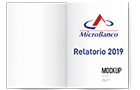
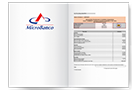
Adding reports and index changes

diff --git a/proposta7/relatorio.html b/proposta7/relatorio.html
@@ -66,15 +66,15 @@
                 <div class="row">
                     <div class="col-lg-7">
                         <ul class="header__top__widget">
-                            <li><i class="fa fa-clock-o"></i> Week day: 08:00 am to 18:00 pm</li>
-                            <li><i class="fa fa-envelope-o"></i> Info.colorlib@gmail.com</li>
+                            <li><i class="fa fa-clock-o"></i> Aberto: 08:00 as 18:00</li>
+                            <li><i class="fa fa-envelope-o"></i> info@acmicrobanco.co.mz</li>
                         </ul>
                     </div>
                     <div class="col-lg-5">
                         <div class="header__top__right">
                             <div class="header__top__phone">
                                 <i class="fa fa-phone"></i>
-                                <span>(+12) 345 678 910</span>
+                                <span>(+258) 21316768</span>
                             </div>
                             <div class="header__top__social">
                                 <a href="#"><i class="fa fa-facebook"></i></a>
@@ -87,14 +87,15 @@
                 </div>
             </div>
         </div>
+        
         <div class="container">
             <div class="row">
-                <div class="col-lg-2">
+                <div class="col-lg-4">
                     <div class="header__logo">
                         <a href="./index.html"><img src="img/logo300.png" alt=""></a>
                     </div>
                 </div>
-                <div class="col-lg-10">
+                <div class="col-lg-8">
                     <div class="header__nav">
                         <nav class="header__menu">
                             <ul>
@@ -156,7 +157,7 @@
                 <div class="col-lg-9">
                     <div class="car__details__pic">
                         <div class="car__details__pic__large">
-                            <img class="car-big-img" src="img/cars/details/cd-1.png" alt="">
+                            <a href="https://issuu.com/jaime.jcm/docs/indicadores_prudenciais_junho_2020" target="_blank"><img class="car-big-img" src="img/cars/details/cd-1.png" alt=""></a>
                         </div>
                         <div class="car-thumbs">
                             <div class="car-thumbs-track car__thumb__slider owl-carousel">

diff --git a/proposta7/about.html b/proposta7/about.html
@@ -89,12 +89,12 @@
         </div>
         <div class="container">
             <div class="row">
-                <div class="col-lg-2">
+                <div class="col-lg-4">
                     <div class="header__logo">
-                        <a href="./index.html"><img src="img/logo.png" alt=""></a>
+                        <a href="./index.html"><img src="img/logo300.png" alt=""></a>
                     </div>
                 </div>
-                <div class="col-lg-10">
+                <div class="col-lg-8">
                     <div class="header__nav">
                         <nav class="header__menu">
                             <ul>
@@ -102,9 +102,9 @@
                                 <li><a href="./about.html">Sobre Nós</a></li>
                                 <li><a href="#">Productos</a>
                                     <ul class="dropdown">
-                                        <li><a href="#">Particulares</a></li>
-                                        <li><a href="#">Empresas</a></li>
-                                        <li><a href="#">Agro</a></li><li><a href="#">Relatórios</a></li>
+                                        <li><a href="particulares.html">Particulares</a></li>
+                                        <li><a href="empresas.html">Empresas</a></li>
+                                        <li><a href="relatorio.html">Relatórios</a></li>
                                     </ul>
                                 </li>
                                 <li><a href="contacto.html">Onde Estamos</a></li>

diff --git a/proposta7/particulares.html b/proposta7/particulares.html
@@ -91,12 +91,12 @@
             <div class="row">
                 <div class="container">
             <div class="row">
-                <div class="col-lg-2">
+                <div class="col-lg-4">
                     <div class="header__logo">
                         <a href="./index.html"><img src="img/logo300.png" alt=""></a>
                     </div>
                 </div>
-                <div class="col-lg-10">
+                <div class="col-lg-8">
                     <div class="header__nav">
                         <nav class="header__menu">
                             <ul>
@@ -110,7 +110,7 @@
                                     <ul class="dropdown">
                                         <li class="active"><a href="particulares.html">Particulares</a></li>
                                         <li><a href="empresas.html">Empresas</a></li>
-                                        <li><a href="#">Agro</a></li><li><a href="relatorio.html">Relatórios</a></li>
+                                        <li><a href="relatorio.html">Relatórios</a></li>
                                     </ul>
                                 </li>
                                 <li><a href="contacto.html">Onde Estamos</a></li>

diff --git a/proposta7/empresas.html b/proposta7/empresas.html
@@ -91,12 +91,12 @@
             <div class="row">
                 <div class="container">
             <div class="row">
-                <div class="col-lg-2">
+                <div class="col-lg-4">
                     <div class="header__logo">
                         <a href="./index.html"><img src="img/logo300.png" alt=""></a>
                     </div>
                 </div>
-                <div class="col-lg-10">
+                <div class="col-lg-8">
                     <div class="header__nav">
                         <nav class="header__menu">
                             <ul>
@@ -110,7 +110,7 @@
                                     <ul class="dropdown">
                                         <li class="active"><a href="particulares.html">Particulares</a></li>
                                         <li><a href="empresas.html">Empresas</a></li>
-                                        <li><a href="#">Agro</a></li><li><a href="#">Relatórios</a></li>
+                                        <li><a href="relatorio.html">Relatórios</a></li>
                                     </ul>
                                 </li>
                                 <li><a href="contacto.html">Onde Estamos</a></li>

diff --git a/proposta7/contacto.html b/proposta7/contacto.html
@@ -89,12 +89,12 @@
         </div>
         <div class="container">
             <div class="row">
-                <div class="col-lg-2">
+                <div class="col-lg-4">
                     <div class="header__logo">
                         <a href="./index.html"><img src="img/logo300.png" alt=""></a>
                     </div>
                 </div>
-                <div class="col-lg-10">
+                <div class="col-lg-8">
                     <div class="header__nav">
                         <nav class="header__menu">
                             <ul>
@@ -108,7 +108,7 @@
                                     <ul class="dropdown">
                                         <li><a href="particulares.html">Particulares</a></li>
                                         <li><a href="empresas.html">Empresas</a></li>
-                                        <li><a href="#">Agro</a></li><li><a href="relatorio.html">Relatórios</a></li>
+                                        <li><a href="relatorio.html">Relatórios</a></li>
                                     </ul>
                                 </li>
                                 <li class="active"><a href="contact.html">Onde Estamos</a></li>

diff --git a/proposta7/index.html b/proposta7/index.html
@@ -225,7 +225,7 @@
                     <div class="feature__text">
                         <div class="section-title">
                             <span>Quem somos</span>
-                            <h2>Conheca um pouco mais de nos</h2>
+                            <h2>Conheça um pouco mais de nós</h2>
                         </div>
                         <div class="feature__text__desc">
                             <p>

diff --git a/proposta7/css/style.css b/proposta7/css/style.css
@@ -512,6 +512,8 @@ ol {
 
 .hero__text {
 	padding-top: 110px;
+    background-color: #000000;
+    opacity: 0.6;
 }
 
 .hero__text .primary-btn {
@@ -540,7 +542,7 @@ ol {
 }
 
 .hero__text__title h2 {
-	font-size: 60px;
+	font-size: 40px;
 	color: #ffffff;
 	font-weight: 700;
 	margin-top: 10px;

diff --git a/proposta7/sass/_hero.scss b/proposta7/sass/_hero.scss
@@ -25,9 +25,9 @@
 
 .transbox {
   margin: 10px;
-  background-color: #ffffff;
+  background-color: #000000;
   border: 0px solid black;
-  opacity: 0.6;
+  opacity: 0.5;
 }
 
 .hero__text__title {
